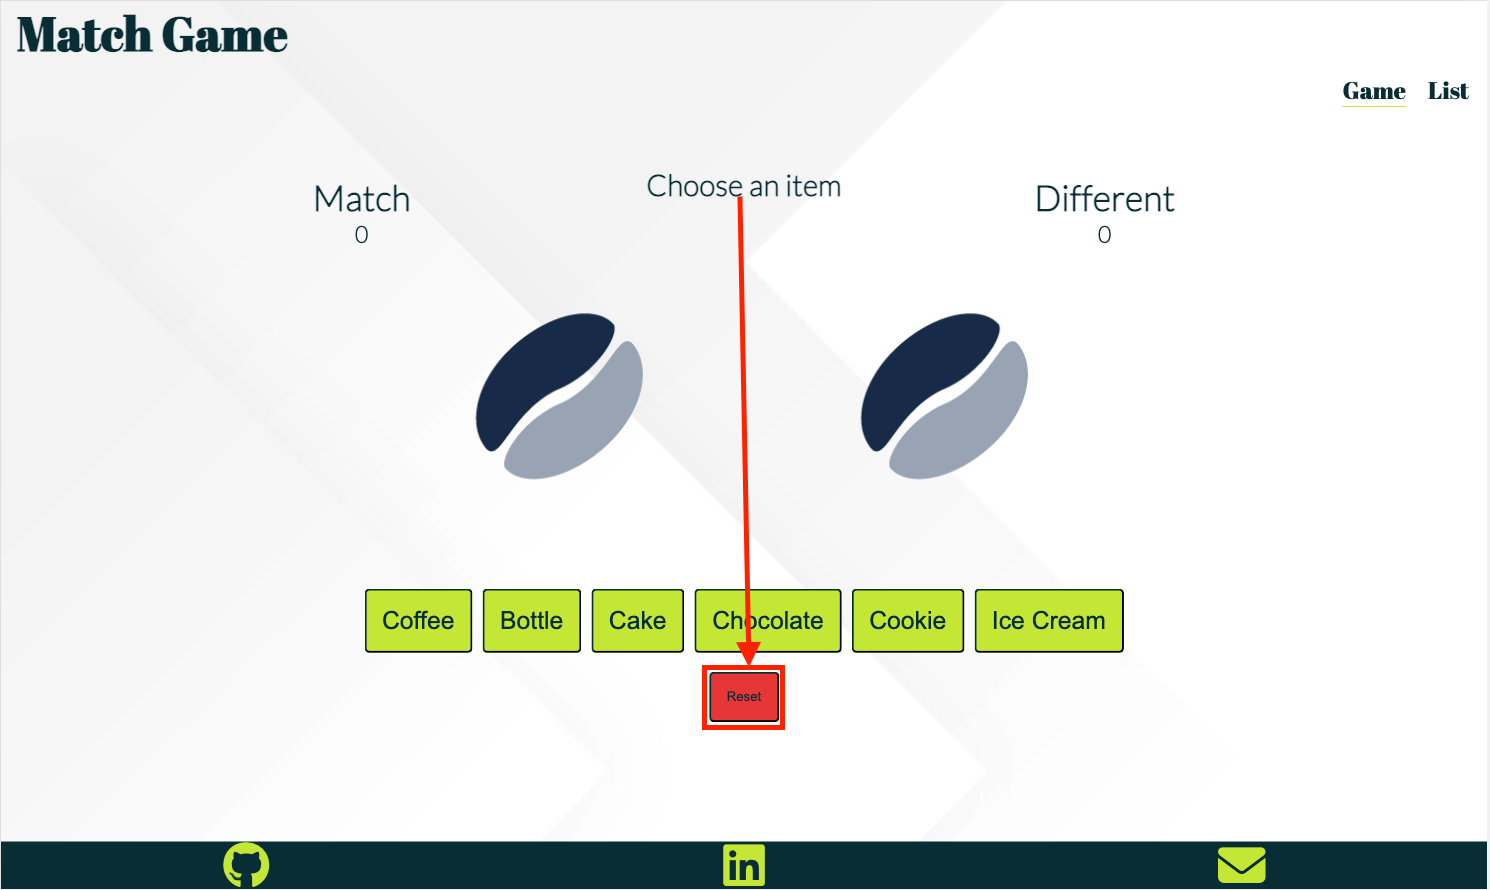
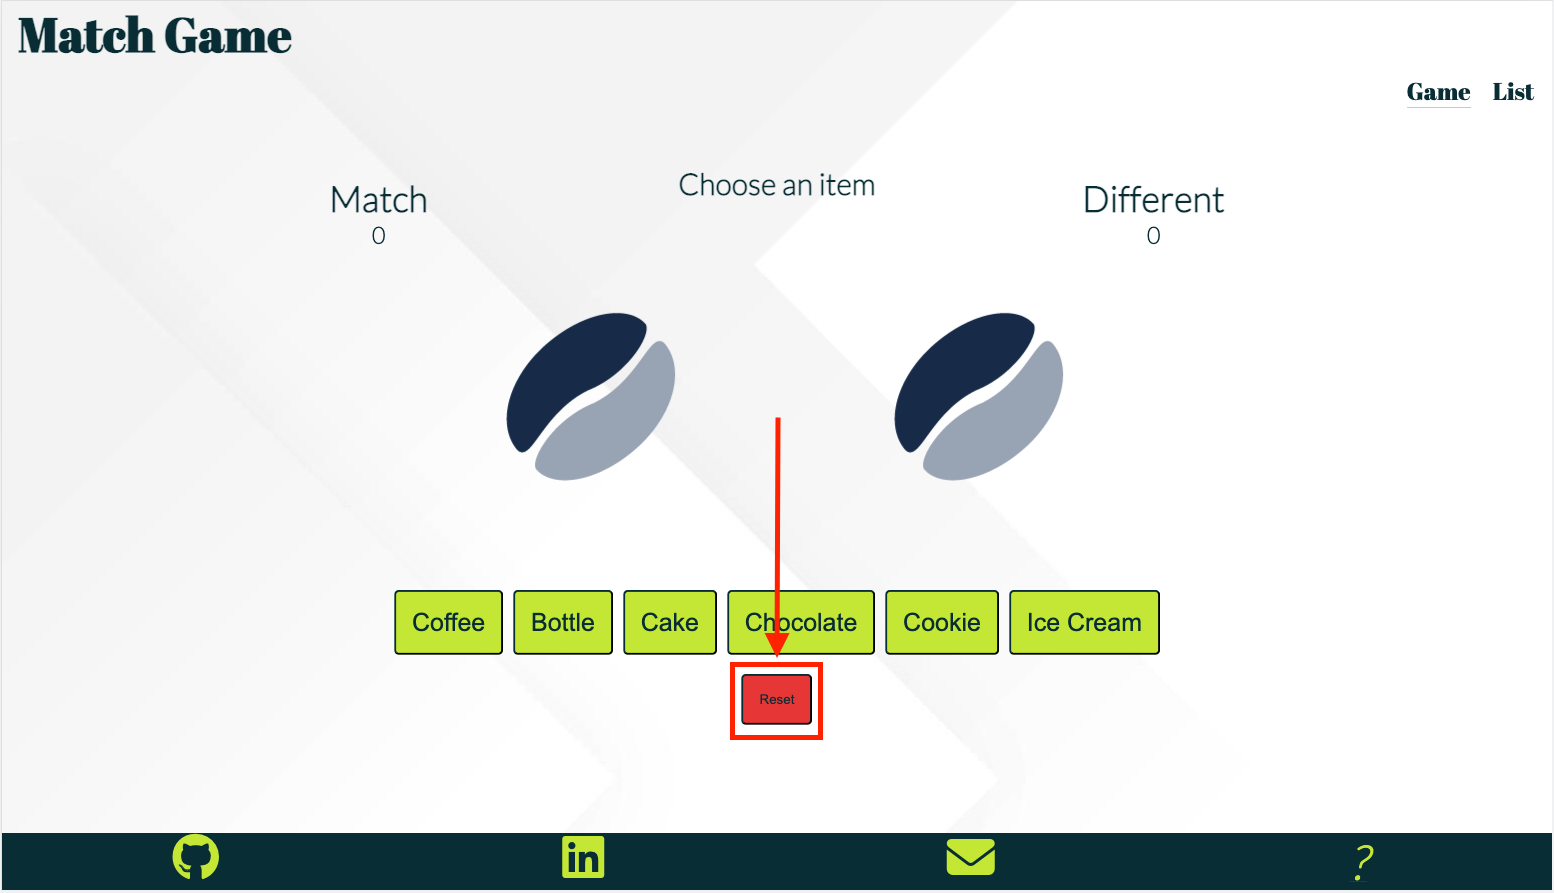
Complete the user stories in the readme file

diff --git a/README.md b/README.md
@@ -83,7 +83,7 @@
 11. As the site owner, I want users to keep up to date site updates,
 12. As the site owner, I want users to be able to submit feedback.
 13. As the site owner, I want users to be able to complete the tasks they require.
-14. As the site owner, I want users to be able to complete the tasks they require.
+14. As the site owner, I want users to be able to return if this access a invalid link.
 
 ## Design
 
@@ -149,13 +149,15 @@ The home page is structured is an intuative way where all the relevent informati
     * The navigation links to the game page & list are all positioned to the right hand side of the header,
     * The black text in the navigation bar links contrasts nicely with the white background and main hero image below,
     * This Navigation bar is clear to tell the website you are on and intuative to use navigation between each page.
+    * User stories covered: 2, 7, 13
 
 ![This is an screenshot of the navigation bar](docs/readme.md/features/header_nav.png)
 
 * The Info Screen
     * The info screen is used to give the basic game rules,
     * This screen has the access button to get into the game,
-    * this screen will fade away once lets go is clocked to reveal the game.
+    * This screen will fade away once lets go is clocked to reveal the game.
+    * User stories covered: 1, 4, 9
 
 ![This is an screenshot of the info page](docs/readme.md/features/info_screen.png)
 
@@ -165,14 +167,16 @@ The home page is structured is an intuative way where all the relevent informati
     * When the choice button is selected the outcome text will say if it is a match or not,
     * If it is a match it will update the score number, and the same if it is not a match,
     * If you use all 10 chances and don't get 5 matches it will say you lost the game.
+    * User stories covered: 5
 
 ![This is an screenshot of the info page](docs/readme.md/features/match_game.png)
 
 * The Footer 
     * The footer section keeps the links static at the bottom of the page,
-    * The github, linkedin & feedback links open up a new webpage when they are clicked on,
+    * The github, linkedin, feedback & faq links open up a new webpage when they are clicked on,
     * The icons were sourced and imported from font awosome,
-    * To make the footer responsive for both mobile and desktop screens. It will stay th the bottom of your screen on mobile so you always  have access to the links
+    * To make the footer responsive for both mobile and desktop screens. It will stay th the bottom of your screen on mobile so you always  have access to the links,
+    * User stories covered: 3, 8, 11
 
 ![This is an screenshot of the footer section](docs/readme.md/features/footer.png)
 
@@ -181,6 +185,7 @@ The home page is structured is an intuative way where all the relevent informati
     * The input in the center of the page lets you enter text and click the + to add the list below,
     * Once the user adds a few line items you can clock the check mark to fade them out to be considered done,
     * The user can also use the x to delete the line item off the page.
+    * User stories covered: 2, 7, 13
 
 ![This is an screenshot of the List page](docs/readme.md/features/shopping_list.png)
 
@@ -189,17 +194,20 @@ The home page is structured is an intuative way where all the relevent informati
     * The styling alines with the home page where there is a background image and color scheme,
     * The form requires the name, email and a message to be entered.
     * The form will send a response back to your email so you know we recieved it.
+    * User stories covered: 3, 10, 12
 
 ![This is an screenshot of the form page](docs/readme.md/features/form.png)
 
- FAQ Page
+ * FAQ Page
     * The faq page goes over the most asked questions.
     * This page will be updated with feadback recieved from the user.
+    * User stories covered: 6, 9
 
 ![This is an screenshot of the form page](docs/readme.md/features/faq.png)
 
- 404 Page
+ * 404 Page
     * The 404 page has all links to return it back to the where the user meant to go.
+    * User stories covered: 14
 
 ![This is an screenshot of the form page](docs/readme.md/features/404.png)
 
@@ -356,7 +364,16 @@ This was resolved by trial and error reviewing the js code. The arrey that was b
 <img src="docs/readme.md/user_stories/user_story_5.png">
 </details>
 
-6. As a returning user, I want to be able to quickly add items again and check them of during the day. 
+6. As a first time user, I want to have a fequently asked questions section.
+| **Feature** | **Action** | **Expected Results** | **Actual Result** |
+|-------------|------------|----------------------|-------------------|
+| Feedback | Click on the question mark icon in the footer | Opens the faq page | Works as expected |
+
+<details><summary>Screenshots</summary>
+<img src="docs/readme.md/user_stories/user_story_6.png">
+</details>
+
+7. As a returning user, I want to be able to quickly add items again and check them of during the day. 
 
 | **Feature** | **Action** | **Expected Results** | **Actual Result** |
 |-------------|------------|----------------------|-------------------|
@@ -367,20 +384,20 @@ This was resolved by trial and error reviewing the js code. The arrey that was b
 <details><summary>Screenshots</summary>
 <img src="docs/readme.md/user_stories/user_story_2.png">
 <img src="docs/readme.md/user_stories/user_story_2_a.png">
-<img src="docs/readme.md/user_stories/user_story_6.png">
+<img src="docs/readme.md/user_stories/user_story_7.png">
 </details>
 
-7. As a returning user, I want to be able to access the developers links.
+8. As a returning user, I want to be able to access the developers links.
 
 | **Feature** | **Action** | **Expected Results** | **Actual Result** |
 |-------------|------------|----------------------|-------------------|
 | Footer | Scroll down to the footer section and select the github link | opens up the github depo | Works as expected|
 
 <details><summary>Screenshots</summary>
-<img src="docs/readme.md/user_stories/user_story_7.png">
+<img src="docs/readme.md/user_stories/user_story_8.png">
 </details>
 
-8. As a returning user, I want to have a target score to beat the game,
+9. As a returning user, I want to have a target score to beat the game,
 
 | **Feature** | **Action** | **Expected Results** | **Actual Result** |
 |-------------|------------|----------------------|-------------------|
@@ -390,7 +407,7 @@ This was resolved by trial and error reviewing the js code. The arrey that was b
 <img src="docs/readme.md/user_stories/user_story_1.png">
 </details>
 
-9. As a returning user , I want to be able to submit feedback.
+10. As a returning user , I want to be able to submit feedback.
 
 | **Feature** | **Action** | **Expected Results** | **Actual Result** |
 |-------------|------------|----------------------|-------------------|
@@ -402,52 +419,50 @@ This was resolved by trial and error reviewing the js code. The arrey that was b
 <img src="docs/readme.md/user_stories/user_story_3_b.png">
 </details>
 
-10. As the site owner, I want users to keep up to date with site updates,
+11. As the site owner, I want users to keep up to date with site updates,
 
 | **Feature** | **Action** | **Expected Results** | **Actual Result** |
 |-------------|------------|----------------------|-------------------|
 | Github | Select the github icon opens up the github in a new Page | Locating the github repo with all the most recent updates | Works as expected|
 
 <details><summary>Screenshots</summary>
-<img src="docs/readme.md/user_stories/user_story_7.png">
+<img src="docs/readme.md/user_stories/user_story_8.png">
 </details>
 
-11. As the site owner, I want users to be able to submit feedback.
+12. As the site owner, I want users to be able to submit feedback.
 
 | **Feature** | **Action** | **Expected Results** | **Actual Result** |
 |-------------|------------|----------------------|-------------------|
-| Packages | Scroll down to the packages section | Locating the four different packages | Works as expected|
+| Feedback | Click on the evnalope icon in the footer | Opens the feedback page | Works as expected |
+| Feedback | Fill out the form and click send off | Sends a response email to the users inbox| Works as expected |
 
 <details><summary>Screenshots</summary>
-<img src="">
-<img src="">
-</details>
-
-12. As the site owner, I want users to be able to complete the tasks they require.
-
-| **Feature** | **Action** | **Expected Results** | **Actual Result** |
-|-------------|------------|----------------------|-------------------|
-| Events | Scroll down to the events section | Locating the different weekly events | Works as expected|
-
-<details><summary>Screenshots</summary>
-<img src="">
-<img src="">
+<img src="docs/readme.md/user_stories/user_story_3_a.png">
+<img src="docs/readme.md/user_stories/user_story_3_b.png">
 </details>
 
 13. As the site owner, I want users to be able to complete the tasks they require.
 
 | **Feature** | **Action** | **Expected Results** | **Actual Result** |
 |-------------|------------|----------------------|-------------------|
-| Subscription | In the navigation bar select the subscribe link, Then you can fill out thr form to subscribe | Locating the subscription form | Works as expected|
+| Shopping list | Click on list in the nav bar | Locating the shopping list page | Works as expected |
+| Shopping list | Click on the + symbol on the list section | Creating a new line item | Works as expected |
+| Shopping list | Click on the check mark or minus to mark or delete the line item | fades out or deletes line item | works as expected |
 
 <details><summary>Screenshots</summary>
-<img src="">
-<img src="">
+<img src="docs/readme.md/user_stories/user_story_2.png">
+<img src="docs/readme.md/user_stories/user_story_2_a.png">
+<img src="docs/readme.md/user_stories/user_story_2_b.png">
 </details>
 
+14. As the site owner, I want users to be able to return if this access a invalid link.
+
+| **Feature** | **Action** | **Expected Results** | **Actual Result** |
+|-------------|------------|----------------------|-------------------|
+| 404 | on the 404 page click on the here link, or use any of the nav buttons | brings you back to the site | Works as expected|
+
 <details><summary>Screenshots</summary>
-<img src="">
-<img src="">
+<img src="docs/readme.md/user_stories/user_story_14.png">
 </details>
 
 ### Unfixed Bugs
